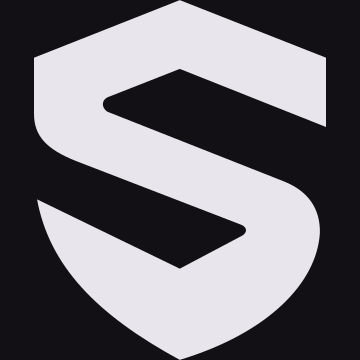
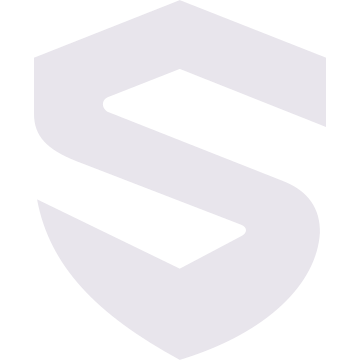
fix: manter fundo transparente nos icones da extensao

diff --git a/docs/identidade-visual.md b/docs/identidade-visual.md
@@ -1,4 +1,4 @@
-# Identidade visual — 1.7.46
+# Identidade visual — 1.7.47
 
 A identidade aprovada usa o símbolo S integrado ao escudo, sem título no ícone, e base quase preta com leve fundo violeta.
 
@@ -19,7 +19,7 @@ Sucesso, aviso e erro mantêm cores semânticas. O indicador por aba preserva ve
 
 `icons/super-icon.svg` é a fonte canônica. `viewBox="340 198 573 706"` coincide com os limites do caminho: sem margem artificial, imagem incorporada ou texto desenhado. O SVG tem fundo transparente e preenchimento #E8E5EC; nos cabeçalhos do tema claro, a classe `brand-mark` aplica a versão escura por filtro.
 
-`npm run build:icons` usa Sharp (dependência de desenvolvimento) para regenerar os PNGs 16/32/48/128 do host e os tamanhos compatíveis nas árvores VPN instalada/fonte. Esses PNGs têm fundo #121015 para manter leitura na barra do navegador e nas notificações de sistemas claros/escuros. O desenho ocupa toda a altura, sem deformação; o espaço lateral decorre da proporção natural do escudo em um arquivo quadrado. Não há margem adicional de prancheta. As cópias SVG `vpn-logo.svg` da integração também seguem a fonte canônica.
+`npm run build:icons` usa Sharp (dependência de desenvolvimento) para regenerar os PNGs 16/32/48/128 do host e os tamanhos compatíveis nas árvores VPN instalada/fonte. Na 1.7.47, esses PNGs mantêm transparência real, sem o quadrado #121015 que havia sido introduzido na 1.7.46. O desenho ocupa toda a altura, sem deformação; o espaço lateral decorre da proporção natural do escudo em um arquivo quadrado. Não há margem adicional de prancheta. As cópias SVG `vpn-logo.svg` da integração também seguem a fonte canônica.
 
 Após alterar a marca/paleta:
 
@@ -46,3 +46,7 @@ O fundo padrão da Nova guia sem cores salvas passa a #121015. Configurações e
 Ícones inspecionados em 16/32/48/128 px; SVG validado e renderizado. As combinações de texto, texto secundário e destaque sobre fundo/superfícies apresentam contraste mínimo calculado de 7,34:1 no escuro e 5,61:1 no claro. Isso verifica as combinações de tokens, não uma auditoria de todos os estados/overlays.
 
 Builds da Nova guia e VPN e suíte existente executados; resultados em [validacao.md](validacao.md). Conferência nativa desta versão no perfil pessoal permanece pendente: o Chromium local não iniciou na etapa anterior devido à restrição de sockets do ambiente. A inspeção de ativos rasterizados não substitui a conferência de todas as telas no navegador.
+
+## Correção 1.7.47
+
+Removido o preenchimento do canvas e a chamada `flatten` do gerador. Os 30 PNGs do host e das duas árvores VPN foram regenerados com fundo transparente. A cor #121015 permanece na interface. Conferidos tamanhos, igualdade das cópias, pixels transparentes e semitransparentes nas bordas em todas as variantes; nenhum fundo ou contorno novo foi acrescentado ao símbolo. As sobreposições coloridas do indicador VPN continuam sendo desenhadas sobre o PNG de base.

diff --git a/README.md b/README.md
@@ -4,11 +4,11 @@
 
 Extensão pessoal para Helium e navegadores Chromium, com Nova guia, sincronização de favoritos, VPN no navegador, limpeza ao sair, controle de autoplay e proteção da última aba.
 
-**Versão instalada: 1.7.46.** Documentação revisada em 17 de novembro de 2026. Temas escuro, claro e sistema; idiomas PT-BR e inglês compartilhados entre os módulos. Requer Chromium 116 ou superior, conforme o manifest.
+**Versão instalada: 1.7.47.** Documentação revisada em 17 de novembro de 2026. Temas escuro, claro e sistema; idiomas PT-BR e inglês compartilhados entre os módulos. Requer Chromium 116 ou superior, conforme o manifest.
 
 Para investigar uma falha da VPN, abra `chrome://extensions`, localize a Super Extensão e inspecione o **service worker**. Na aba Console, reproduza a tentativa e execute `getVpnDiagnostics()`. Os últimos 50 eventos registram somente horário, etapa, resultado e código conhecido, sem credenciais ou dados da conta; falhas novas também aparecem como avisos `[Super VPN]`. Esse histórico é temporário e reinicia com o worker. `getLogs()` é o registro legado, dependente de debug, e pode estar vazio.
 
-Na **1.7.46**, a identidade visual usa **#121015** como base escura, superfícies grafite e destaques em branco suave. O símbolo S/escudo substitui a marca anterior no popup, Nova guia/editor, aba de reserva, favicons, notificações e ícones da VPN. O SVG é recortado nos limites do desenho, sem título nem margem de prancheta; ícones quadrados mantêm as proporções e fundo sólido para legibilidade na barra do navegador. [Paleta, arquivos e reconstrução](docs/identidade-visual.md).
+Na **1.7.46**, a identidade visual usa **#121015** como base escura, superfícies grafite e destaques em branco suave. O símbolo S/escudo substitui a marca anterior no popup, Nova guia/editor, aba de reserva, favicons, notificações e ícones da VPN. O SVG é recortado nos limites do desenho, sem título nem margem de prancheta; na 1.7.47, os PNGs quadrados também têm fundo transparente, mantendo somente o símbolo e suas proporções. [Paleta, arquivos e reconstrução](docs/identidade-visual.md).
 
 ## Estado atual
 

diff --git a/PROXIMOS-PASSOS.md b/PROXIMOS-PASSOS.md
@@ -1,6 +1,6 @@
 # Próximos passos da Super Extensão
 
-Revisado em **17 de novembro de 2026**, referência **1.7.46**. A página de bloqueio permite voltar ao endereço interceptado após confirmação da VPN e novo clique, com revalidação de estado e sem repetir POST. Consulta/cache de conta, política Free/pago e resolução das configurações de recursos usam núcleos próprios desde a 1.7.25. Endpoints, formatos e fachadas de compatibilidade permanecem. A conexão Proton pessoal ainda precisa ser repetida após a correção da previsão de rede da 1.7.24. Evidências, limites, confirmações do usuário e validações ainda pendentes estão separados em [docs/validacao.md](docs/validacao.md).
+Revisado em **17 de novembro de 2026**, referência **1.7.47**. A página de bloqueio permite voltar ao endereço interceptado após confirmação da VPN e novo clique, com revalidação de estado e sem repetir POST. Consulta/cache de conta, política Free/pago e resolução das configurações de recursos usam núcleos próprios desde a 1.7.25. Endpoints, formatos e fachadas de compatibilidade permanecem. A conexão Proton pessoal ainda precisa ser repetida após a correção da previsão de rede da 1.7.24. Evidências, limites, confirmações do usuário e validações ainda pendentes estão separados em [docs/validacao.md](docs/validacao.md).
 
 ## Estado e prioridade
 

diff --git a/docs/validacao.md b/docs/validacao.md
@@ -1,5 +1,9 @@
 # Validação da Super Extensão
 
+## Transparência dos ícones — 1.7.47 (17/11/2026)
+
+Removido o fundo sólido do gerador de ícones. Conferidos os 30 PNGs (host, VPN e fontes VPN): dimensões corretas, canal alpha, cantos transparentes e pixels semitransparentes nas bordas. As cópias equivalentes possuem os mesmos bytes. `check:ui`, `check:integrity` e whitespace passaram. Não foi repetida a suíte funcional por ser uma correção exclusivamente visual nos ativos e no script de geração. A conferência da barra real no perfil pessoal permanece pendente.
+
 ## Identidade visual — 1.7.46 (17/11/2026)
 
 Aplicada a paleta #121015/grafite/branco suave nos tokens compartilhados, interfaces e páginas auxiliares. A marca S/escudo substitui os ícones do host e da integração VPN. SVG recortado nos limites do caminho, PNGs em todos os tamanhos e fontes de reconstrução sincronizados. As variantes de status da VPN continuam sobrepondo seus sinais sem alterar a lógica de conexão.
